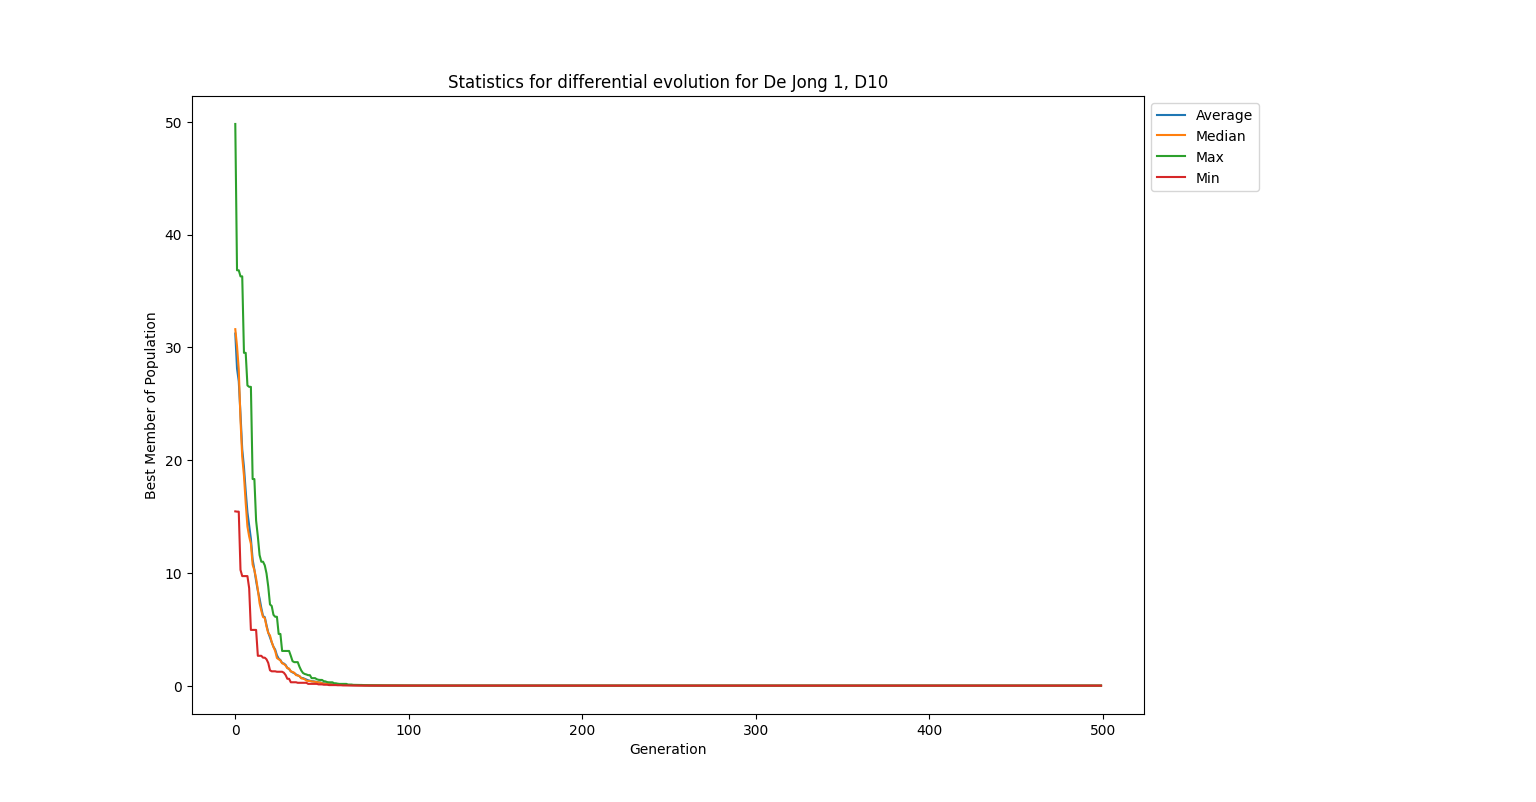
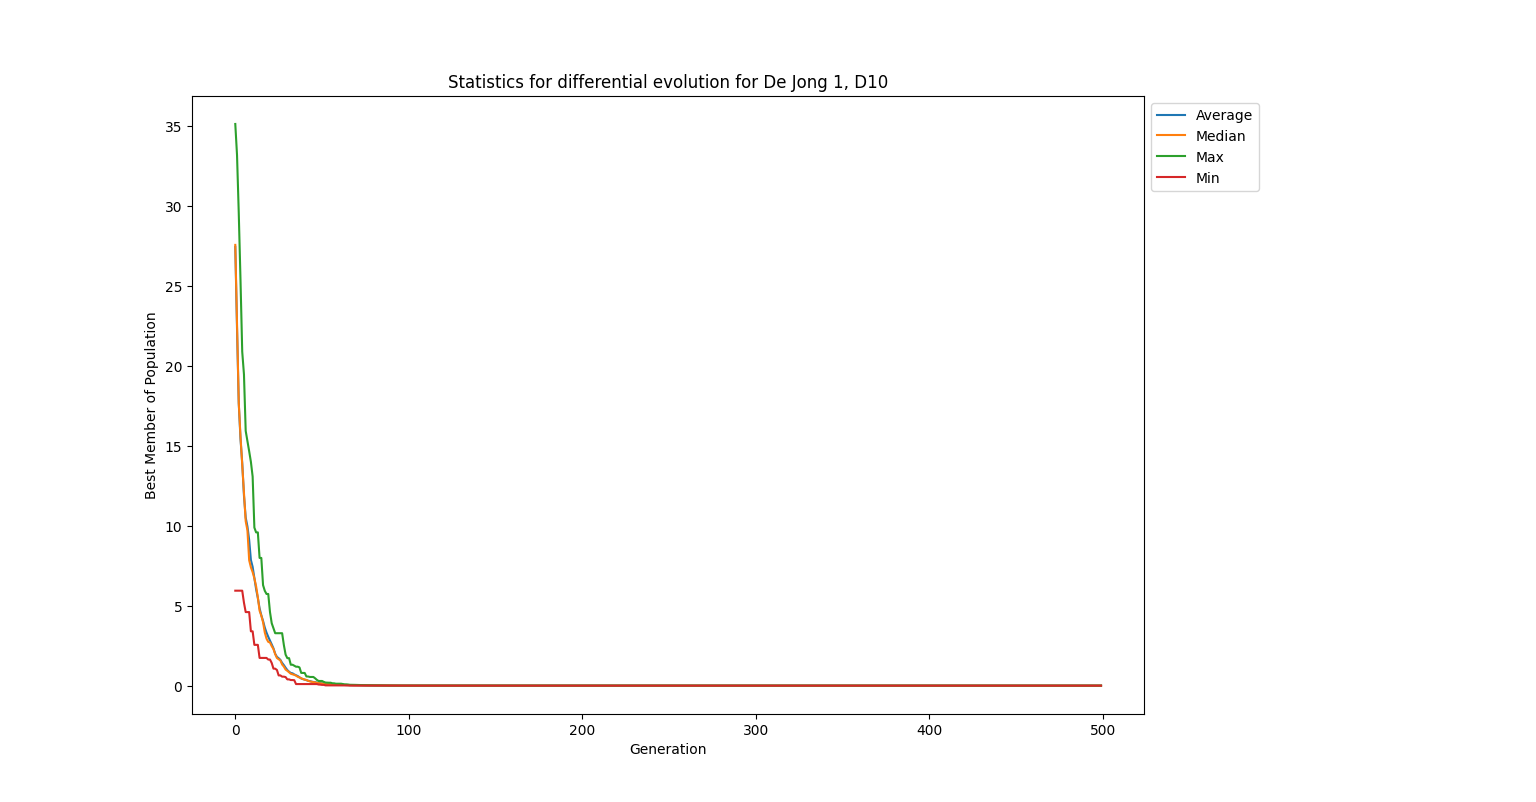
feat: Better constraints

Changed region(s): [[0.1562, 0.4364, 0.2188, 0.8728], [0.125, 0.2805, 0.1562, 0.3429]]

diff --git a/optim.py b/optim.py
@@ -130,7 +130,7 @@ def differential_evolution(it: int, fn, dim: int, constr_min: float, constr_max:
         return v
 
     def crossbreed(x: list, v: list) -> list:
-        nonlocal dim
+        nonlocal dim, constr_min, constr_max
 
         if DE_CR == 0:
             # TODO
@@ -140,9 +140,15 @@ def differential_evolution(it: int, fn, dim: int, constr_min: float, constr_max:
             u = list()
             for j in range(dim):
                 if random.random() < DE_CR:
-                    u.append(v[j])
+                    nu = v[j]
                 else:
-                    u.append(x[j])
+                    nu = x[j]
+
+                if nu < constr_min or nu > constr_max:
+                    logger.debug(f"Tried to move over constraint.")
+                    nu = random.uniform(constr_min, constr_max)
+
+                u.append(nu)
 
         return u
 
@@ -154,7 +160,7 @@ def differential_evolution(it: int, fn, dim: int, constr_min: float, constr_max:
         graph_y = list()
 
         population = [[random.uniform(constr_min, constr_max) for b in range(dim)] for p in range(DE_NP)]
-        res_in = [fn(p) for p in population]
+        # res_in = [fn(p) for p in population]
         res_out = None
         res_best = None
         # ws.append([i + 1, '', ''] + res_in)
@@ -251,7 +257,7 @@ def get_results(it: int, enable_plots: bool = False):
         gen.append(differential_evolution(it, de_jong_1, d, -5.0, 5.0, enable_plots))
         gen.append(differential_evolution(it, de_jong_2, d, -5.0, 5.0, enable_plots))
         gen.append(differential_evolution(it, schwefel, d, -500, 500, enable_plots))
-        gen.append(differential_evolution(it, rastrigin, d, -500, 500, enable_plots))
+        gen.append(differential_evolution(it, rastrigin, d, -5.12, 5.12, enable_plots))
         max_gen = max(gen)
 
         if enable_plots:
